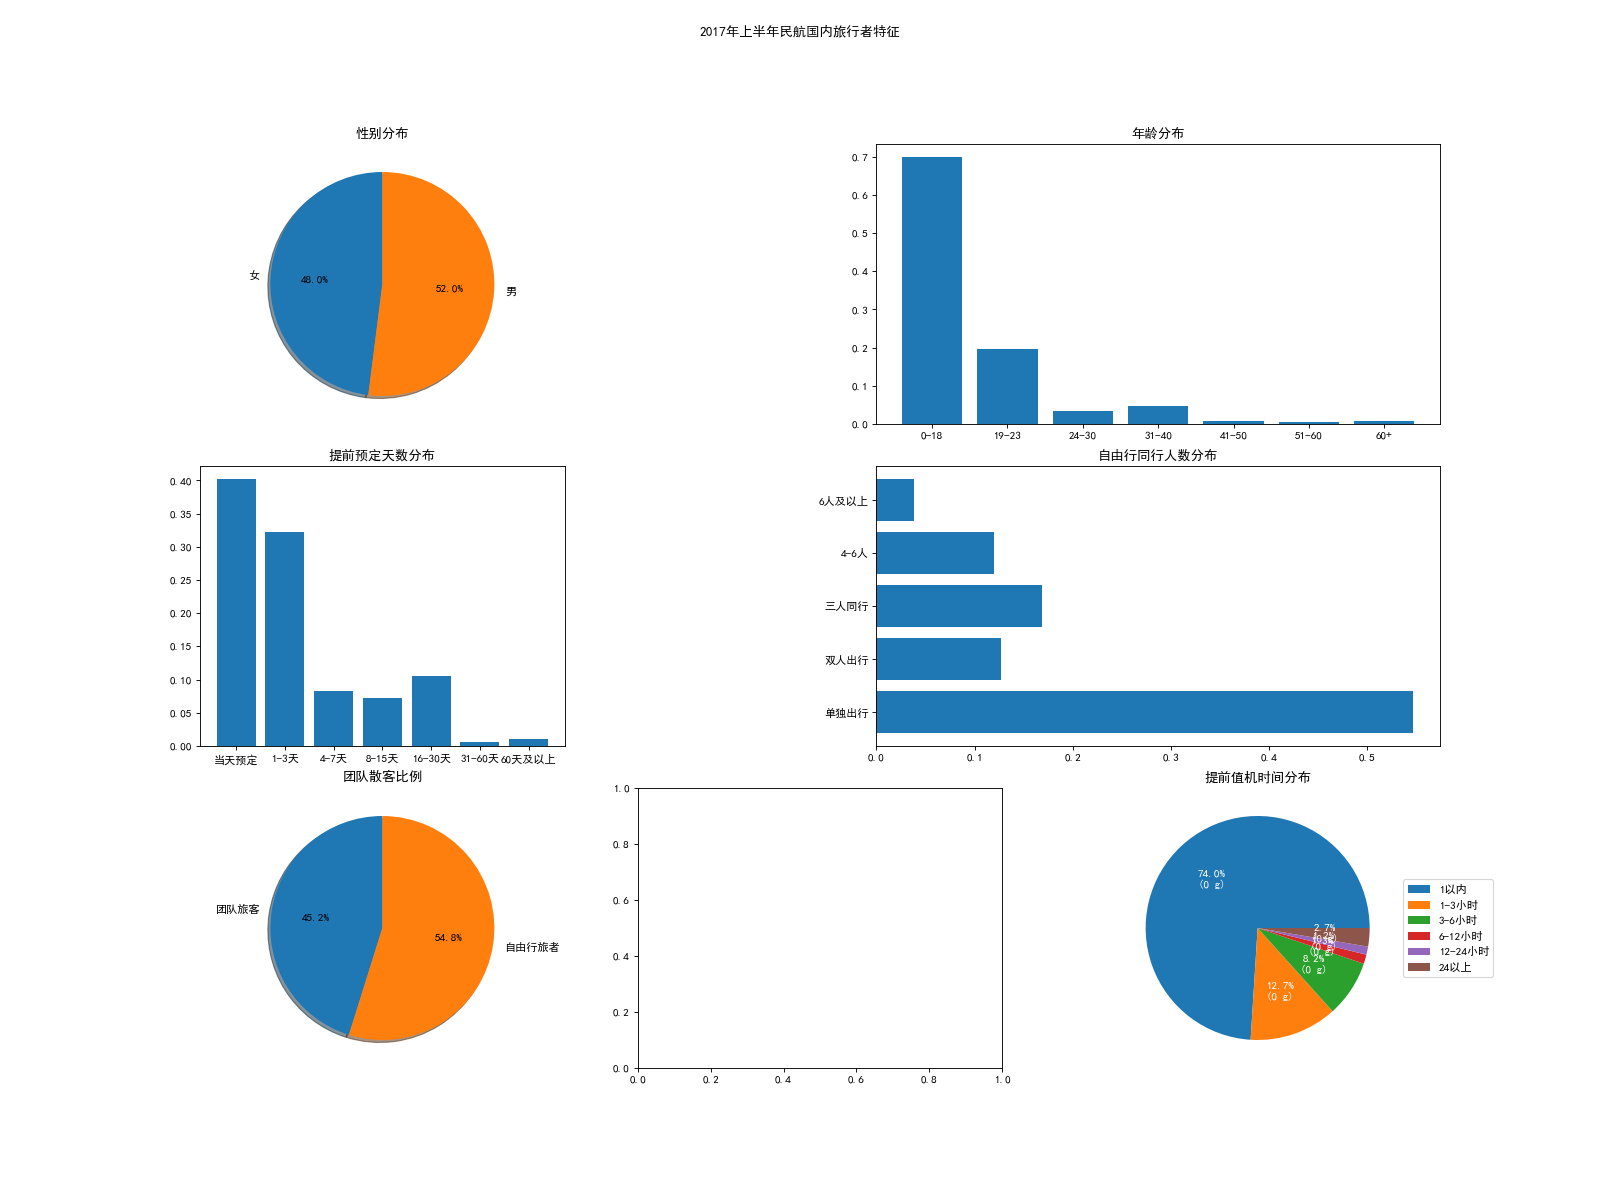
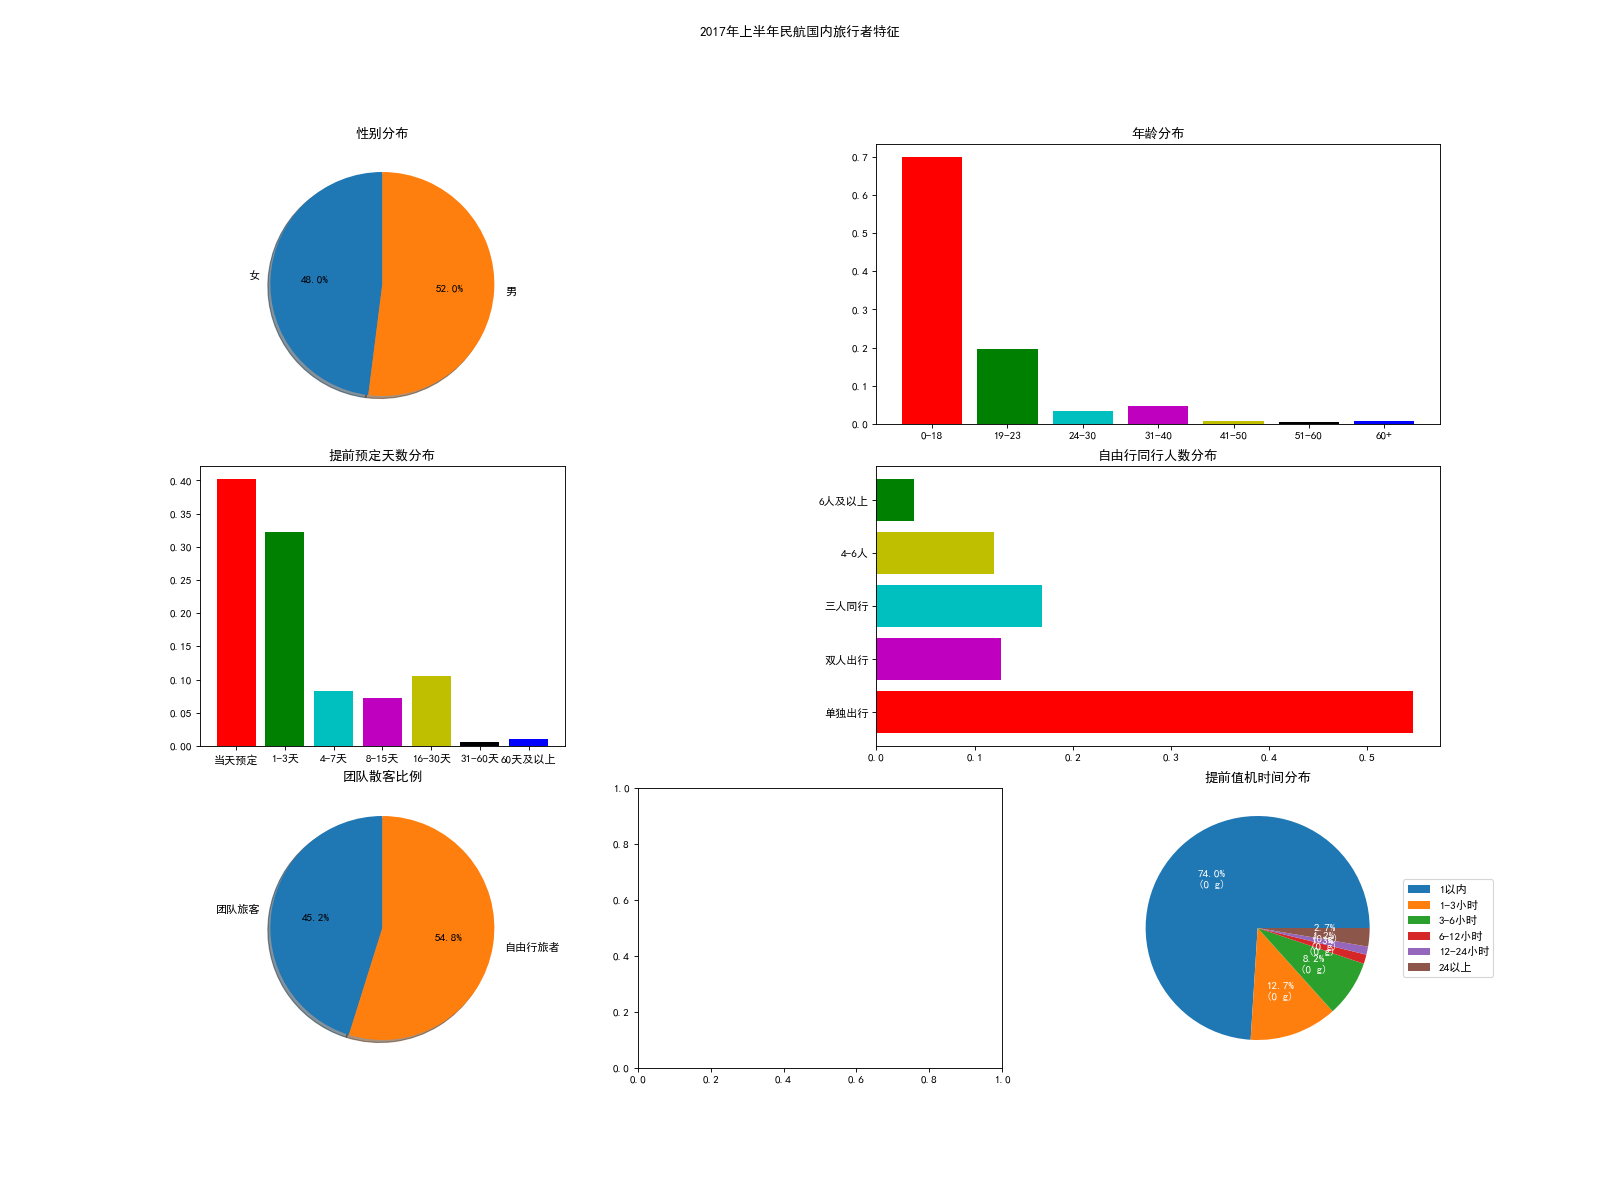
两个表格数据

diff --git a/core/img/__init__.py b/core/img/__init__.py
@@ -300,7 +300,7 @@ class InternationalTraveler(Chart):
 
         self.ax_list[0].set_title('国际市场旅客目的地偏好')
 
-        self.ax_list[1].bar(range(len(self.ax2_data)), self.ax2_data, tick_label=self.ax2_labels)
+        self.ax_list[1].bar(range(len(self.ax2_data)), self.ax2_data, tick_label=self.ax2_labels,color=['r','g','b','c','m','y','k'])
         self.ax_list[1].set_title('提前预定天数分布')
 
         self.ax_list[2].explode = (0, 0)
@@ -308,7 +308,7 @@ class InternationalTraveler(Chart):
                             shadow=True, startangle=90)
         self.ax_list[2].set_title('团队散客比例')
 
-        self.ax_list[3].barh(self.ax4_y_pos, self.ax4_performance, align='center')
+        self.ax_list[3].barh(self.ax4_y_pos, self.ax4_performance, align='center',color=['g','y','c','m','r','k'])
         self.ax_list[3].set_yticks(self.ax4_y_pos)
         self.ax_list[3].set_yticklabels(self.ax4_people)
         self.ax_list[3].invert_yaxis()
@@ -322,7 +322,7 @@ class InternationalTraveler(Chart):
                                                        textprops=dict(color="w"))
         self.ax_list[4].legend(wedges, self.ax5_ingredients,
                                loc="center left",
-                               bbox_to_anchor=(1, 0, 0.5, 1))
+                               bbox_to_anchor=(1, 0, 0.5, 1),)
         self.ax_list[4].set_title("国际提前值机时间分布")
 
 
@@ -409,13 +409,13 @@ class DomesticTraveler(Chart):
                             shadow=True, startangle=90)
         self.ax_list[0].set_title('性别分布')
 
-        self.ax_list[1].bar(range(len(self.ax2_data)), self.ax2_data, tick_label=self.ax2_labels)
+        self.ax_list[1].bar(range(len(self.ax2_data)), self.ax2_data, tick_label=self.ax2_labels,color=['r','g','c','m','y','k','b'])
         self.ax_list[1].set_title('年龄分布')
 
-        self.ax_list[2].bar(range(len(self.ax3_data)), self.ax3_data, tick_label=self.ax3_labels)
+        self.ax_list[2].bar(range(len(self.ax3_data)), self.ax3_data, tick_label=self.ax3_labels,color=['r','g','c','m','y','k','b'])
         self.ax_list[2].set_title('提前预定天数分布')
 
-        self.ax_list[3].barh(self.ax4_y_pos, self.ax4_performance, align='center')
+        self.ax_list[3].barh(self.ax4_y_pos, self.ax4_performance, align='center',color=['g','y','c','m','r'])
         self.ax_list[3].set_yticks(self.ax4_y_pos)
         self.ax_list[3].set_yticklabels(self.ax4_people)
         self.ax_list[3].invert_yaxis()
@@ -475,7 +475,7 @@ class InlandAviation(Chart):
 
     def _set_fig(self):
         # 设置图像的属性
-        self.fig.set_size_inches(20, 10)  # 设置大小
+        self.fig.set_size_inches(10, 5)  # 设置大小
         self.fig.set_dpi(80)  # 设置dpi
         plt.rcParams['font.sans-serif'] = ['SimHei']  # 中文乱码
 
@@ -486,10 +486,9 @@ class InlandAviation(Chart):
 
     def _process_df(self):
         # 处理数据，生成建立ax所需的参数
-        #self.df.loc[self.df['year_id'] == 2017, '旅客量'].mean()
-        self.data = [[ self.df.loc[self.df['year_id'] == 2017, '国内市场旅客量'].mean()/10000,
-                      self.df.loc[self.df['year_id'] == 2017, '国内市场客公里'].mean(),
-                      self.df.loc[self.df['year_id'] == 2017, '国内市场重复购买率'].mean()]]
+        self.data = [[int(self.df.loc[self.df['year_id'] == 2017, '国内市场旅客量'].mean()/10000),
+                      int(self.df.loc[self.df['year_id'] == 2017, '国内市场客公里'].mean()),
+                      round(self.df.loc[self.df['year_id'] == 2017, '国内市场重复购买率'].mean(),2)]]
         self.labels = ["人数（万）",
                        "平均飞行距离（公里）",
                        "重复购买率"]
@@ -498,7 +497,7 @@ class InlandAviation(Chart):
         # 设置ax_list中ax的样式，并添加数据
         self.ax_list[0].axis('tight')
         self.ax_list[0].axis('off')
-        self.ax_list[0].table(cellText=self.data, colLabels=self.labels, loc="center")
+        self.ax_list[0].table(cellText=self.data,colLabels=self.labels,cellLoc="center",loc="center")
         self.ax_list[0].set_title("2017年上半年民航国内市场旅客概况", fontdict={'size': 40})
 
 
@@ -512,7 +511,7 @@ class InternationalAviation(Chart):
 
     def _set_fig(self):
         # 设置图像的属性
-        self.fig.set_size_inches(20, 10)  # 设置大小
+        self.fig.set_size_inches(10, 5)  # 设置大小
         self.fig.set_dpi(80)  # 设置dpi
         plt.rcParams['font.sans-serif'] = ['SimHei']  # 中文乱码
 
@@ -523,9 +522,9 @@ class InternationalAviation(Chart):
 
     def _process_df(self):
         # 处理数据，生成建立ax所需的参数
-        self.data = [[self.df.loc[self.df['year_id'] == 2017, '国际市场旅客量'].mean()/1000,
-                      self.df.loc[self.df['year_id'] == 2017, '国际市场客公里'].mean(),
-                      self.df.loc[self.df['year_id'] == 2017, '国际市场重复购买率'].mean()]]
+        self.data = [[int(self.df.loc[self.df['year_id'] == 2017, '国际市场旅客量'].mean()/1000),
+                      int(self.df.loc[self.df['year_id'] == 2017, '国际市场客公里'].mean()),
+                      round(self.df.loc[self.df['year_id'] == 2017, '国际市场重复购买率'].mean(),2)]]
         self.labels = ["人数（万）",
                        "平均飞行距离（公里）",
                        "重复购买率"]
@@ -534,5 +533,5 @@ class InternationalAviation(Chart):
         # 设置ax_list中ax的样式，并添加数据
         self.ax_list[0].axis('tight')
         self.ax_list[0].axis('off')
-        self.ax_list[0].table(cellText=self.data, colLabels=self.labels, loc="center")
+        self.ax_list[0].table(cellText=self.data, colLabels=self.labels,cellLoc="center", loc="center")
         self.ax_list[0].set_title("2017年上半年民航国际市场旅客概况", fontdict={'size': 40})
